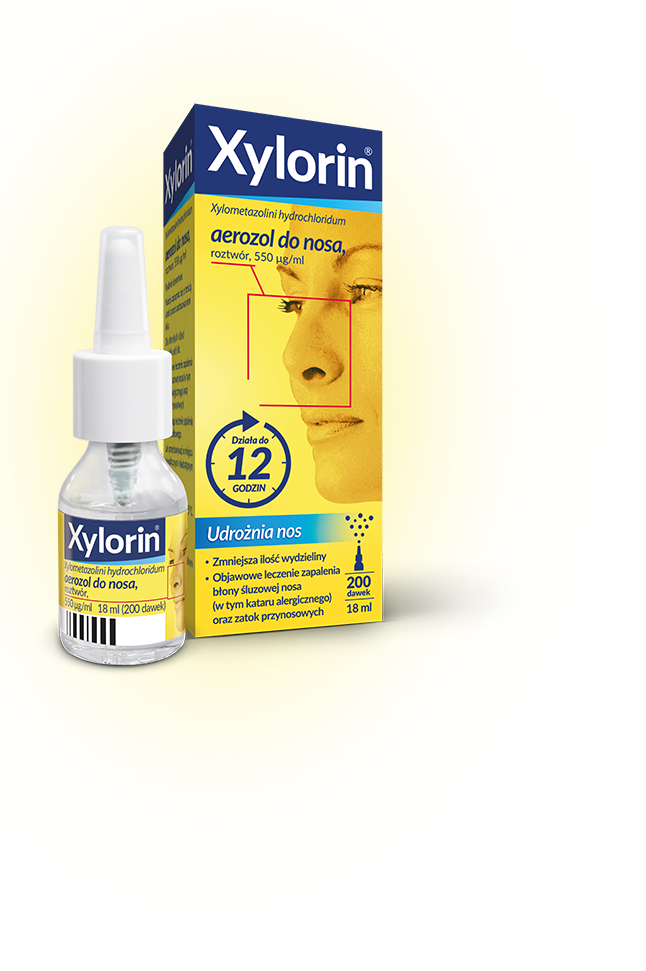
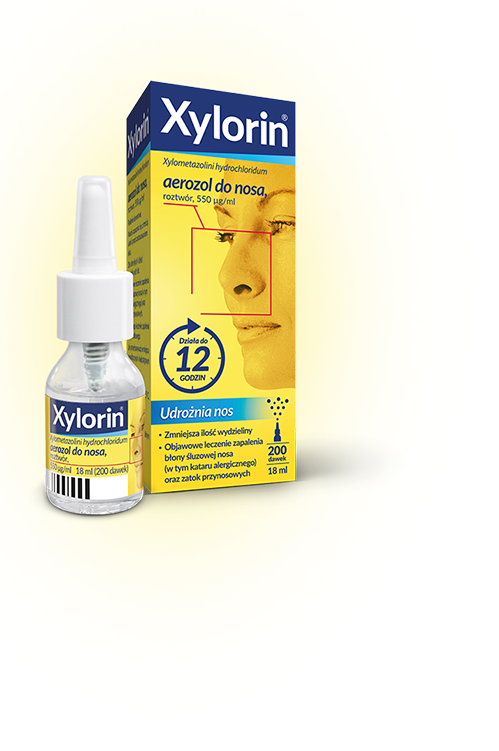
es-kv desktop styles

diff --git a/assets/style/styles.scss b/assets/style/styles.scss
@@ -81,24 +81,45 @@ $fs--italic: italic;
         background: url(../images/kv-bg.png) no-repeat;
         background-size: 215%;
         background-position: right 20% top 0%;
+        @media (min-width: 768px) {
+            background-size: 86%;
+            background-position: right top;
+            height: 500px;
+            .es-kv__desktop-wrapper {
+                display: flex;
+            }
+        }
 
         &__logo {
             width: 33%;
             max-width: 120px;
             margin: auto;
         }
-
+        &__packshot {
+            @media (min-width: 768px) {
+                width: 45%;
+            }
+        }
         &__wrapper {
             display: flex;
             flex-direction: column;
             align-items: center;
             margin-top: -50px;
+            @media (min-width: 768px) {
+                margin-top: 36px;
+                margin-left: -103px;
+                align-items: flex-start;
+            }
         }
 
         &__title-wrapper {
             font-family: $ff--accent;
             text-align: center;
             font-style: italic;
+            @media (min-width: 768px) {
+                text-align: left;
+                margin-bottom: 1rem;
+            }
         }
 
         &__title {
@@ -107,6 +128,9 @@ $fs--italic: italic;
 
         &__subtitle {
             font-size: 1.5rem;
+            @media (min-width: 768px) {
+                margin-left: 1.5rem;
+            }
         }
 
         &__flex-container {
@@ -115,22 +139,32 @@ $fs--italic: italic;
             flex-wrap: wrap;
             gap: 2rem;
             padding: 2rem;
+            @media (min-width: 768px) {
+                gap: 0.5rem;
+                padding: 0;
+            }
         }
 
         &__single {
-
             display: grid;
             grid-template-columns: 66px 1fr;
             align-items: center;
             gap: 1rem;
+            @media (min-width: 768px) {
+                width: 100%;
+                height: 54px;
+            }
         }
         &__icon {
             justify-self: center;
+            @media (min-width: 768px) {
+                scale: 0.6;
+            }
         }
 
         &__text {
             @include font($ff--main, $fw--regular, $fs--italic);
-            font-size: 1.2rem;
+            font-size: clamp(1.2rem, 0.9783rem + 1.0435vw, 1.5rem);
 
             &--bold {
                 font-weight: $fw--bold;
@@ -144,18 +178,25 @@ $fs--italic: italic;
         align-items: center;
         padding: 2rem;
         gap: 2rem;
+        @media (min-width: 768px) {
+            flex-direction: row;
+        }
         &__single {
             display: flex;
             flex-direction: column;
             align-items: center;
             gap: 1rem;
+            @media (min-width: 768px) {
+                flex-basis: 33%;
+            }
         }
         &__icon {
             max-width: 84px;
         }
         &__text {
-            @include font($ff--main, $fw--regular, $fs--regular);
-            font-size: 1.5rem;
+            @include font($ff--main, $fw--regular, $fs--normal);
+            font-size: 1.3rem;
+            text-align: center;
         }
     }
 }

diff --git a/assets/style/styles.css b/assets/style/styles.css
@@ -63,10 +63,25 @@
   background-size: 215%;
   background-position: right 20% top 0%;
 }
+@media (min-width: 768px) {
+  #es-rc #es-rc-content .es-kv {
+    background-size: 86%;
+    background-position: right top;
+    height: 500px;
+  }
+  #es-rc #es-rc-content .es-kv .es-kv__desktop-wrapper {
+    display: flex;
+  }
+}
 #es-rc #es-rc-content .es-kv__logo {
   width: 33%;
   max-width: 120px;
   margin: auto;
+}
+@media (min-width: 768px) {
+  #es-rc #es-rc-content .es-kv__packshot {
+    width: 45%;
+  }
 }
 #es-rc #es-rc-content .es-kv__wrapper {
   display: flex;
@@ -74,16 +89,34 @@
   align-items: center;
   margin-top: -50px;
 }
+@media (min-width: 768px) {
+  #es-rc #es-rc-content .es-kv__wrapper {
+    margin-top: 36px;
+    margin-left: -103px;
+    align-items: flex-start;
+  }
+}
 #es-rc #es-rc-content .es-kv__title-wrapper {
   font-family: "urw-din", sans-serif;
   text-align: center;
   font-style: italic;
+}
+@media (min-width: 768px) {
+  #es-rc #es-rc-content .es-kv__title-wrapper {
+    text-align: left;
+    margin-bottom: 1rem;
+  }
 }
 #es-rc #es-rc-content .es-kv__title {
   font-size: 3rem;
 }
 #es-rc #es-rc-content .es-kv__subtitle {
   font-size: 1.5rem;
+}
+@media (min-width: 768px) {
+  #es-rc #es-rc-content .es-kv__subtitle {
+    margin-left: 1.5rem;
+  }
 }
 #es-rc #es-rc-content .es-kv__flex-container {
   display: flex;
@@ -92,20 +125,37 @@
   gap: 2rem;
   padding: 2rem;
 }
+@media (min-width: 768px) {
+  #es-rc #es-rc-content .es-kv__flex-container {
+    gap: 0.5rem;
+    padding: 0;
+  }
+}
 #es-rc #es-rc-content .es-kv__single {
   display: grid;
   grid-template-columns: 66px 1fr;
   align-items: center;
   gap: 1rem;
 }
+@media (min-width: 768px) {
+  #es-rc #es-rc-content .es-kv__single {
+    width: 100%;
+    height: 54px;
+  }
+}
 #es-rc #es-rc-content .es-kv__icon {
   justify-self: center;
+}
+@media (min-width: 768px) {
+  #es-rc #es-rc-content .es-kv__icon {
+    scale: 0.6;
+  }
 }
 #es-rc #es-rc-content .es-kv__text {
   font-family: "myriad-pro", sans-serif;
   font-weight: 400;
   font-style: italic;
-  font-size: 1.2rem;
+  font-size: clamp(1.2rem, 0.9783rem + 1.0435vw, 1.5rem);
 }
 #es-rc #es-rc-content .es-kv__text--bold {
   font-weight: 700;
@@ -114,11 +164,24 @@
   display: flex;
   flex-direction: column;
   align-items: center;
+  padding: 2rem;
+  gap: 2rem;
+}
+@media (min-width: 768px) {
+  #es-rc #es-rc-content .es-about {
+    flex-direction: row;
+  }
 }
 #es-rc #es-rc-content .es-about__single {
   display: flex;
   flex-direction: column;
   align-items: center;
+  gap: 1rem;
+}
+@media (min-width: 768px) {
+  #es-rc #es-rc-content .es-about__single {
+    flex-basis: 33%;
+  }
 }
 #es-rc #es-rc-content .es-about__icon {
   max-width: 84px;
@@ -126,5 +189,7 @@
 #es-rc #es-rc-content .es-about__text {
   font-family: "myriad-pro", sans-serif;
   font-weight: 400;
-  font-style: italic;
+  font-style: normal;
+  font-size: 1.3rem;
+  text-align: center;
 }/*# sourceMappingURL=styles.css.map */

diff --git a/index.html b/index.html
@@ -13,7 +13,8 @@
         <div id="es-rc-content">
             <section class="es-kv">
                 <img class="es-kv__logo" src="/assets/images/logo.png" alt="logo Xylorin">
-                <img class="es-kv__packshot" src="/assets/images/packshot.png" alt="">
+                <div class="es-kv__desktop-wrapper">
+                  <img class="es-kv__packshot" src="/assets/images/packshot.png" alt="">
                 <div class="es-kv__wrapper">
                     <div class="es-kv__title-wrapper">
                        <h1 class="es-kv__title">Szybko działa</h1>
@@ -34,7 +35,9 @@
                             <p class="es-kv__text">przy <strong class="es-kv__text--bold">zapaleniu zatok</strong></p>
                         </div>
                     </div>
+                </div>  
                 </div>
+                
 
             </section>
             <section class="es-about">
